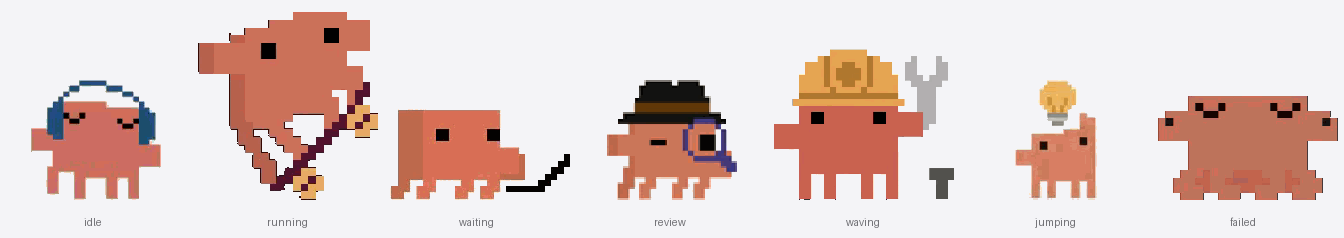
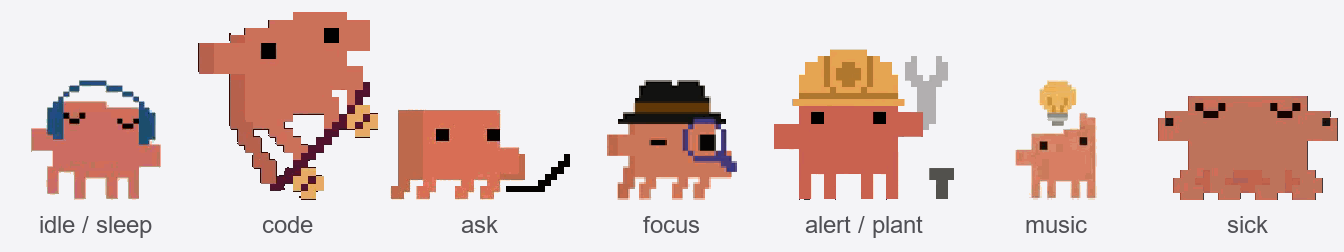
docs(guide): label Clawd's poses by mood, larger text
Claude-Session: https://claude.ai/code/session_018xWdyfsdzypeYYSs68keU9

diff --git a/docs/guide/guide.html b/docs/guide/guide.html
@@ -500,7 +500,7 @@ node_modules\electron\dist\electron.exe . --remote-debugging-port=9333</pre>
     <tr><td>Coding</td><td>An agent session is working</td></tr>
     <tr><td>Music</td><td>Something is playing</td></tr>
     <tr><td>Sleep / Idle</td><td>Two quiet minutes / anything else</td></tr></table>
-  <figure style="margin:2mm 0 0"><img src="../tools/clawd-moods.png" style="width:100%;display:block;border-radius:3mm"><figcaption style="font-size:7.5pt;color:#6e6e73;margin-top:1mm">Clawd, a custom pet: idle, coding, asking, focus, alert, music and sick.</figcaption></figure>
+  <figure style="margin:2mm 0 0"><img src="../tools/clawd-moods.png" style="width:100%;display:block;border-radius:3mm"><figcaption style="font-size:7.5pt;color:#6e6e73;margin-top:1mm">Clawd, a custom pet, in the pose each mood plays.</figcaption></figure>
   <h2>Bring your own pet</h2>
   <p style="font-size:9.5pt">Settings → <b>Choose a pet…</b> takes a pet in the Codex Pets format (a .zip or its pet.json, from codex-pets.net). Islet checks the sprite sheet (192 × 208 frames, 1536 × 1872 or 1536 × 2288), copies it into its own folder and plays each mood from the matching row. <b>Use the cat</b> switches back.</p>
   <div class="foot"><span>Islet · Project Guide</span><span>© 2026 Gopinath. All rights reserved.</span><span class="n"></span></div>
